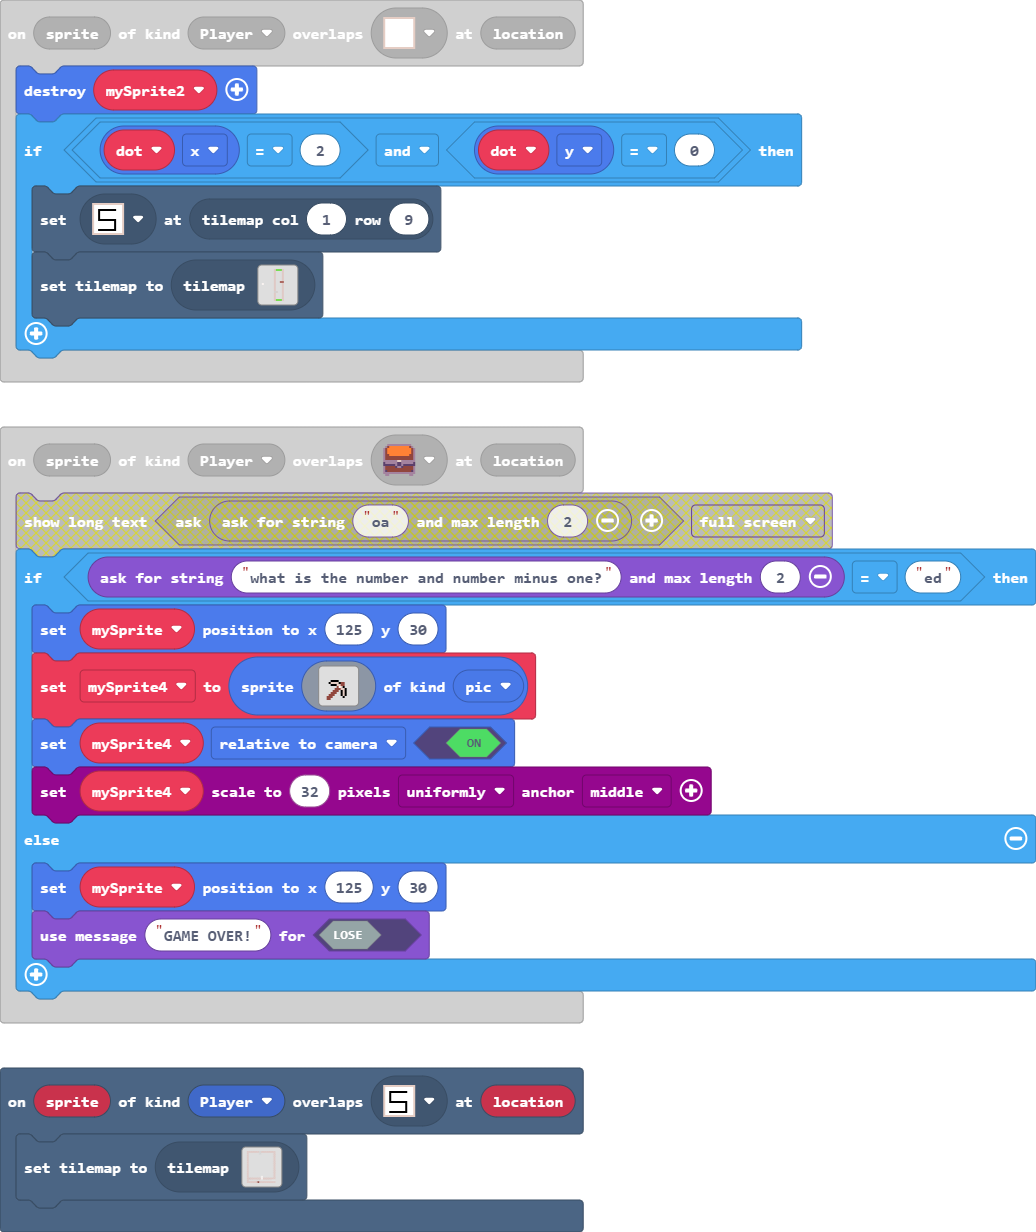
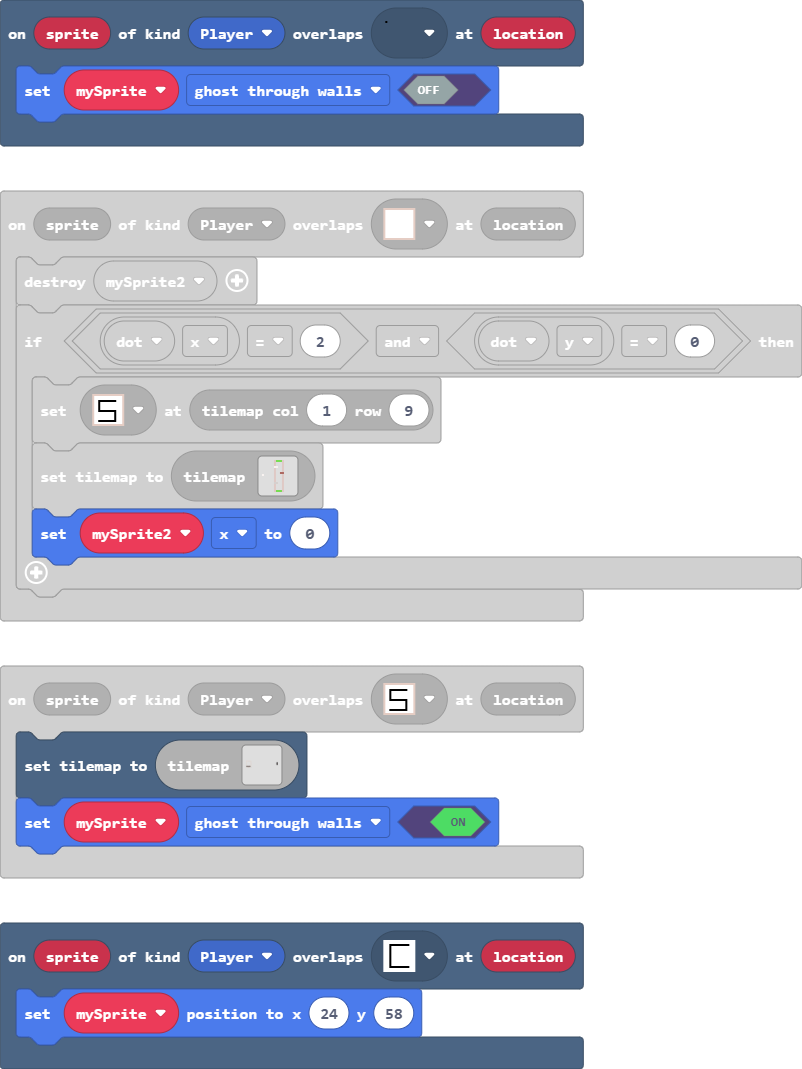
Update main.blocks, main.ts, tilemap.g.jres, tilemap.g.ts

diff --git a/tilemap.g.ts b/tilemap.g.ts
@@ -16,6 +16,12 @@ namespace myTiles {
     export const tile8 = image.ofBuffer(hex``);
     //% fixedInstance jres blockIdentity=images._tile
     export const tile11 = image.ofBuffer(hex``);
+    //% fixedInstance jres blockIdentity=images._tile
+    export const tile6 = image.ofBuffer(hex``);
+    //% fixedInstance jres blockIdentity=images._tile
+    export const tile7 = image.ofBuffer(hex``);
+    //% fixedInstance jres blockIdentity=images._tile
+    export const tile9 = image.ofBuffer(hex``);
 
     helpers._registerFactory("tilemap", function(name: string) {
         switch(helpers.stringTrim(name)) {
@@ -114,25 +120,6 @@ namespace myTiles {
 . . . . . . . . . . . . . . . . 
 . . . . . . . . . . . . . . . . 
 `, [myTiles.transparency16], TileScale.Sixteen);
-            case "level4":
-            case "level4":return tiles.createTilemap(hex`1000100000000000000001030303010000000000000000000000010000000100000000000000000000000100000001000000000000000000000001000000010000000000000000000000010000000100000000000000000000000100000001000000000000000000000001000004040000000000020000000000010000000100000000000000000000000100000001000000000000000000000001000000010000000000000000000000010000000100000000000000000000000505000001000000000000000000000001000000010000000000000000000000010000000100000000000000000000000100000001000000000000000000000001030303010000000000`, img`
-. . . . . . 2 . . . 2 . . . . . 
-. . . . . . 2 . . . 2 . . . . . 
-. . . . . . 2 . . . 2 . . . . . 
-. . . . . . 2 . . . 2 . . . . . 
-. . . . . . 2 . . . 2 . . . . . 
-. . . . . . 2 . . . 2 . . . . . 
-. . . . . . 2 . . . 2 . . . . . 
-. . . . . . 2 . . . 2 . . . . . 
-. . . . . . 2 . . . 2 . . . . . 
-. . . . . . 2 . . . 2 . . . . . 
-. . . . . . 2 . . . 2 . . . . . 
-. . . . . . 2 . . . 2 . . . . . 
-. . . . . . 2 . . . 2 . . . . . 
-. . . . . . 2 . . . 2 . . . . . 
-. . . . . . 2 . . . 2 . . . . . 
-. . . . . . 2 . . . 2 . . . . . 
-`, [myTiles.transparency16,sprites.dungeon.floorLight2,myTiles.tile8,myTiles.tile11,sprites.dungeon.chestClosed,myTiles.tile3], TileScale.Sixteen);
             case "level8":
             case "level8":return tiles.createTilemap(hex`1000100000000000000000000000000000000000000000000000000000000000000000000000000000000000000000000000000000000000000000000000000000000000000000000000000000000000000000000000000000000000000000000000000000000000000000000000000000000000000000000000000000000000000000000000000000000000000000000000000000000000000000000000000000000000000000000000000000000000000000000000000000000000000000000000000000000000000000000000000000000000000000000000000000000000000000000000000000000000000000000000000000000000000000000000000000000000`, img`
 . . . . . . . . . . . . . . . . 
@@ -152,27 +139,66 @@ namespace myTiles {
 . . . . . . . . . . . . . . . . 
 . . . . . . . . . . . . . . . . 
 `, [myTiles.transparency16], TileScale.Sixteen);
+            case "level9":
+            case "level9":return tiles.createTilemap(hex`1000100000000000000000000000000000000000000000000000000000000000000000000000000000000000000000000000000000000000000000000000000000000000000000000000000000000000000000000000000000000000000000000000000000000000000000000000000000000000000000000000000000000000000000000000000000000000000000000000000000000000000000000000000000000000000000000000000000000000000000000000000000000000000000000000000000000000000000000000000000000000000000000000000000000000000000000000000000000000000000000000000000000000000000000000000000000000`, img`
+. . . . . . . . . . . . . . . . 
+. . . . . . . . . . . . . . . . 
+. . . . . . . . . . . . . . . . 
+. . . . . . . . . . . . . . . . 
+. . . . . . . . . . . . . . . . 
+. . . . . . . . . . . . . . . . 
+. . . . . . . . . . . . . . . . 
+. . . . . . . . . . . . . . . . 
+. . . . . . . . . . . . . . . . 
+. . . . . . . . . . . . . . . . 
+. . . . . . . . . . . . . . . . 
+. . . . . . . . . . . . . . . . 
+. . . . . . . . . . . . . . . . 
+. . . . . . . . . . . . . . . . 
+. . . . . . . . . . . . . . . . 
+. . . . . . . . . . . . . . . . 
+`, [myTiles.transparency16], TileScale.Sixteen);
             case "level2":
-            case "level2":return tiles.createTilemap(hex`10001200010101010101010201010101010101010100000000000002000000000000000101000000000000000000000000000001010000000000000000000000000000010100000000000000000000000000000101000000000000000000000000000001010000000000000000000000000000010100000000000000000000000000000101000000000000000000000000000001010000000000000000000000000000010100000000000000000000000000000101000000000000000000000000000001010000000000000000000000000000010100000000000000000000000000000101000000000000000300000000000001010501010101010103010101010101010100000000000000000000000000040401010101010106010101010101010101`, img`
-2 2 2 2 2 2 2 2 2 2 2 2 2 2 2 2 
-2 . . . . . . . . . . . . . . 2 
-2 . . . . . . . . . . . . . . 2 
-2 . . . . . . . . . . . . . . 2 
-2 . . . . . . . . . . . . . . 2 
-2 . . . . . . . . . . . . . . 2 
-2 . . . . . . . . . . . . . . 2 
-2 . . . . . . . . . . . . . . 2 
-2 . . . . . . . . . . . . . . 2 
-2 . . . . . . . . . . . . . . 2 
-2 . . . . . . . . . . . . . . 2 
-2 . . . . . . . . . . . . . . 2 
-2 . . . . . . . . . . . . . . 2 
-2 . . . . . . . . . . . . . . 2 
-2 . . . . . . . . . . . . . . 2 
-2 2 2 2 2 2 2 2 2 2 2 2 2 2 2 2 
-2 . . . . . . . . . . . . . . 2 
-2 2 2 2 2 2 2 2 2 2 2 2 2 2 2 2 
-`, [myTiles.transparency16,sprites.dungeon.floorLight2,myTiles.tile1,myTiles.tile2,myTiles.tile4,sprites.dungeon.floorLight5,myTiles.tile5], TileScale.Sixteen);
+            case "level2":return tiles.createTilemap(hex`6400130001010101010101020101010101010101000000000000000000000000000000000000000000000000000000000000000000000000000000000000000000000000000000000000000000000000000000000000000000000000000000000000000000000000010000000000000200000000000000010000000000000000000000000000000000000000000000000000000000000000000000000000000000000000000000000000000000000000000000000000000000000000000000000000000000000000000000000100000000000000000000000000000100000000000000000000000000000000000000000000000000000000000000000000000000000000000000000000000000000000000000000000000000000000000000000000000000000000000000000000000001000000000000000000000000000001000000000000000000000000000000000000000000000000000000000000000000000000000000000000000000000000000000000000000000000000000000000000000000000000000000000000000000000000010000000000000000000000000000010000000000000000000000000000000000000000000000000000000000000000000000000000000000000000000000000000000000000000000000000000000000000000000000000000000000000000070707070100000000000000000000000000000100000000000000000000000000000000000000000000000000000000000000000000000000000000000000000000000000000000000000000000000000000000000000000000000000000000000000000700000701000000000000000000000000000001000000000000000000000000000000000000000000000000000000000000000000000000000000000000000000000000000000000000000000000000000000000000000000000000000000000000000007070700010000000000000000000000000000010000000000000000000000000000000000000000000000000000000000000000000000000000000000000000000000000000000000000000000000000000000000000000000000000000000000000000070707070100000000000000000000000000000100000000000000000000000000000000000000000000000000000000000000000000000000000000000000000000000000000000000000000000000000000000000000000000000000000000000000000707080801000000000000000000000000000001000000000000000000000000000000000000000000000000000000000000000000000000000000000000000000000000000000000000000000000000000000000000000000000000000000000000000007070707010000000000000000000000000000010000000000000000000000000000000000000000000000000000000000000000000000000000000000000000000000000000000000000000000000000000000000000000000000000000000000000000070707000100000000000000000000000000000100000000000000000000000000000000000000000000000000000000000000000000000000000000000000000000000000000000000000000000000000000000000000000000000000000000000000000707070701000000000000000000000000000001000000000000000000000000000000000000000000000000000000000000000000000000000000000000000000000000000000000000000000000000000000000000000000000000000000000000000000000000010000000000000000000000000000010000000000000000000000000000000000000000000000000000000000000000000000000000000000000000000000000000000000000000000000000000000000000000000000000000000000000000000000000100000000000000030000000000000100000000000000000000000000000000000000000000000000000000000000000000000000000000000000000000000000000000000000000000000000000000000000000000000000000000000000000000000001050101010101010301010101010101000000000000000000000000000000000000000000000000000000000000000000000000000000000000000000000000000000000000000000000000000000000000000000000000000000000000000000000000010707070707070707070707070704040000000000000000000000000000000000000000000000000000000000000000000000000000000000000000000000000000000000000000000000000000000000000000000000000000000000000000000000000107070707070707060707070707070100000000000000000000000000000000000000000000000000000000000000000000000000000000000000000000000000000000000000000000000000000000000000000000000000000000000000000000000001010101010101010601010101010101000000000000000000000000000000000000000000000000000000000000000000000000000000000000000000000000000000000000000000000000000000000000000000000000000000000000000000000000`, img`
+2222222222222222....................................................................................
+2..............2....................................................................................
+2..............2....................................................................................
+2..............2....................................................................................
+2..............2....................................................................................
+2..............2....................................................................................
+2..............2....................................................................................
+2..............2....................................................................................
+2..............2...................................................................................2
+2..............2....................................................................................
+2..............2....................................................................................
+2..............2....................................................................................
+2..............2....................................................................................
+2..............2....................................................................................
+2..............2....................................................................................
+2222222222222222....................................................................................
+2..............2....................................................................................
+2..............2....................................................................................
+2222222222222222....................................................................................
+`, [myTiles.transparency16,sprites.dungeon.floorLight2,myTiles.tile1,myTiles.tile2,myTiles.tile4,sprites.dungeon.floorLight5,myTiles.tile5,myTiles.tile6,myTiles.tile7], TileScale.Sixteen);
+            case "level4":
+            case "level4":return tiles.createTilemap(hex`1000100000000000000001030303010000000000000000000000010000000100000000000000000000000100000001000000000000000000000006060000010000000000000000000000010000000100000000000000000000000100000001000000000000000000000001000004040000000000020000000000010000000100000000000000000000000100000001000000000000000000000001000000010000000000000000000000010000000100000000000000000000000505000001000000000000000000000001000000010000000000000000000000010000000100000000000000000000000100000001000000000000000000000001030303010000000000`, img`
+. . . . . . 2 . . . 2 . . . . . 
+. . . . . . 2 . . . 2 . . . . . 
+. . . . . . 2 . . . 2 . . . . . 
+. . . . . . 2 . . . 2 . . . . . 
+. . . . . . 2 . . . 2 . . . . . 
+. . . . . . 2 . . . 2 . . . . . 
+. . . . . . 2 . . . 2 . . . . . 
+. . . . . . 2 . . . 2 . . . . . 
+. . . . . . 2 . . . 2 . . . . . 
+. . . . . . 2 . . . 2 . . . . . 
+. . . . . . 2 . . . 2 . . . . . 
+. . . . . . 2 . . . 2 . . . . . 
+. . . . . . 2 . . . 2 . . . . . 
+. . . . . . 2 . . . 2 . . . . . 
+. . . . . . 2 . . . 2 . . . . . 
+. . . . . . 2 . . . 2 . . . . . 
+`, [myTiles.transparency16,sprites.dungeon.floorLight2,myTiles.tile8,myTiles.tile11,sprites.dungeon.chestClosed,myTiles.tile3,myTiles.tile9], TileScale.Sixteen);
         }
         return null;
     })
@@ -194,6 +220,12 @@ namespace myTiles {
             case "tile8":return tile8;
             case "myTile9":
             case "tile11":return tile11;
+            case "myTile4":
+            case "tile6":return tile6;
+            case "myTile5":
+            case "tile7":return tile7;
+            case "myTile7":
+            case "tile9":return tile9;
         }
         return null;
     })

diff --git a/main.ts b/main.ts
@@ -7,10 +7,12 @@ scene.onOverlapTile(SpriteKind.Player, assets.tile`myTile0`, function (sprite, l
     if (dot.x == 2 && dot.y == 0) {
         tiles.setTileAt(tiles.getTileLocation(1, 9), assets.tile`myTile1`)
         tiles.setCurrentTilemap(tilemap`level4`)
+        mySprite2.x = 0
     }
 })
 scene.onOverlapTile(SpriteKind.Player, assets.tile`myTile1`, function (sprite, location) {
     tiles.setCurrentTilemap(tilemap`level2`)
+    mySprite.setFlag(SpriteFlag.GhostThroughWalls, true)
 })
 scene.onOverlapTile(SpriteKind.Player, assets.tile`myTile`, function (sprite, location) {
     mySprite2 = sprites.create(img`
@@ -57,6 +59,9 @@ scene.onOverlapTile(SpriteKind.Player, assets.tile`myTile`, function (sprite, lo
 controller.A.onEvent(ControllerButtonEvent.Pressed, function () {
     Render.jumpWithHeightAndDuration(mySprite, 16, 500)
 })
+scene.onOverlapTile(SpriteKind.Player, assets.tile`myTile4`, function (sprite, location) {
+    mySprite.setFlag(SpriteFlag.GhostThroughWalls, false)
+})
 scene.onOverlapTile(SpriteKind.Player, assets.tile`myTile9`, function (sprite, location) {
     mySprite.setPosition(125, 30)
 })
@@ -87,6 +92,9 @@ scene.onOverlapTile(SpriteKind.Player, sprites.dungeon.chestClosed, function (sp
         mySprite.setPosition(125, 30)
         game.setGameOverMessage(false, "GAME OVER!")
     }
+})
+scene.onOverlapTile(SpriteKind.Player, assets.tile`myTile2`, function (sprite, location) {
+    mySprite.setPosition(24, 58)
 })
 controller.menu.onEvent(ControllerButtonEvent.Pressed, function () {
     Render.moveWithController(2, 2, 2)
